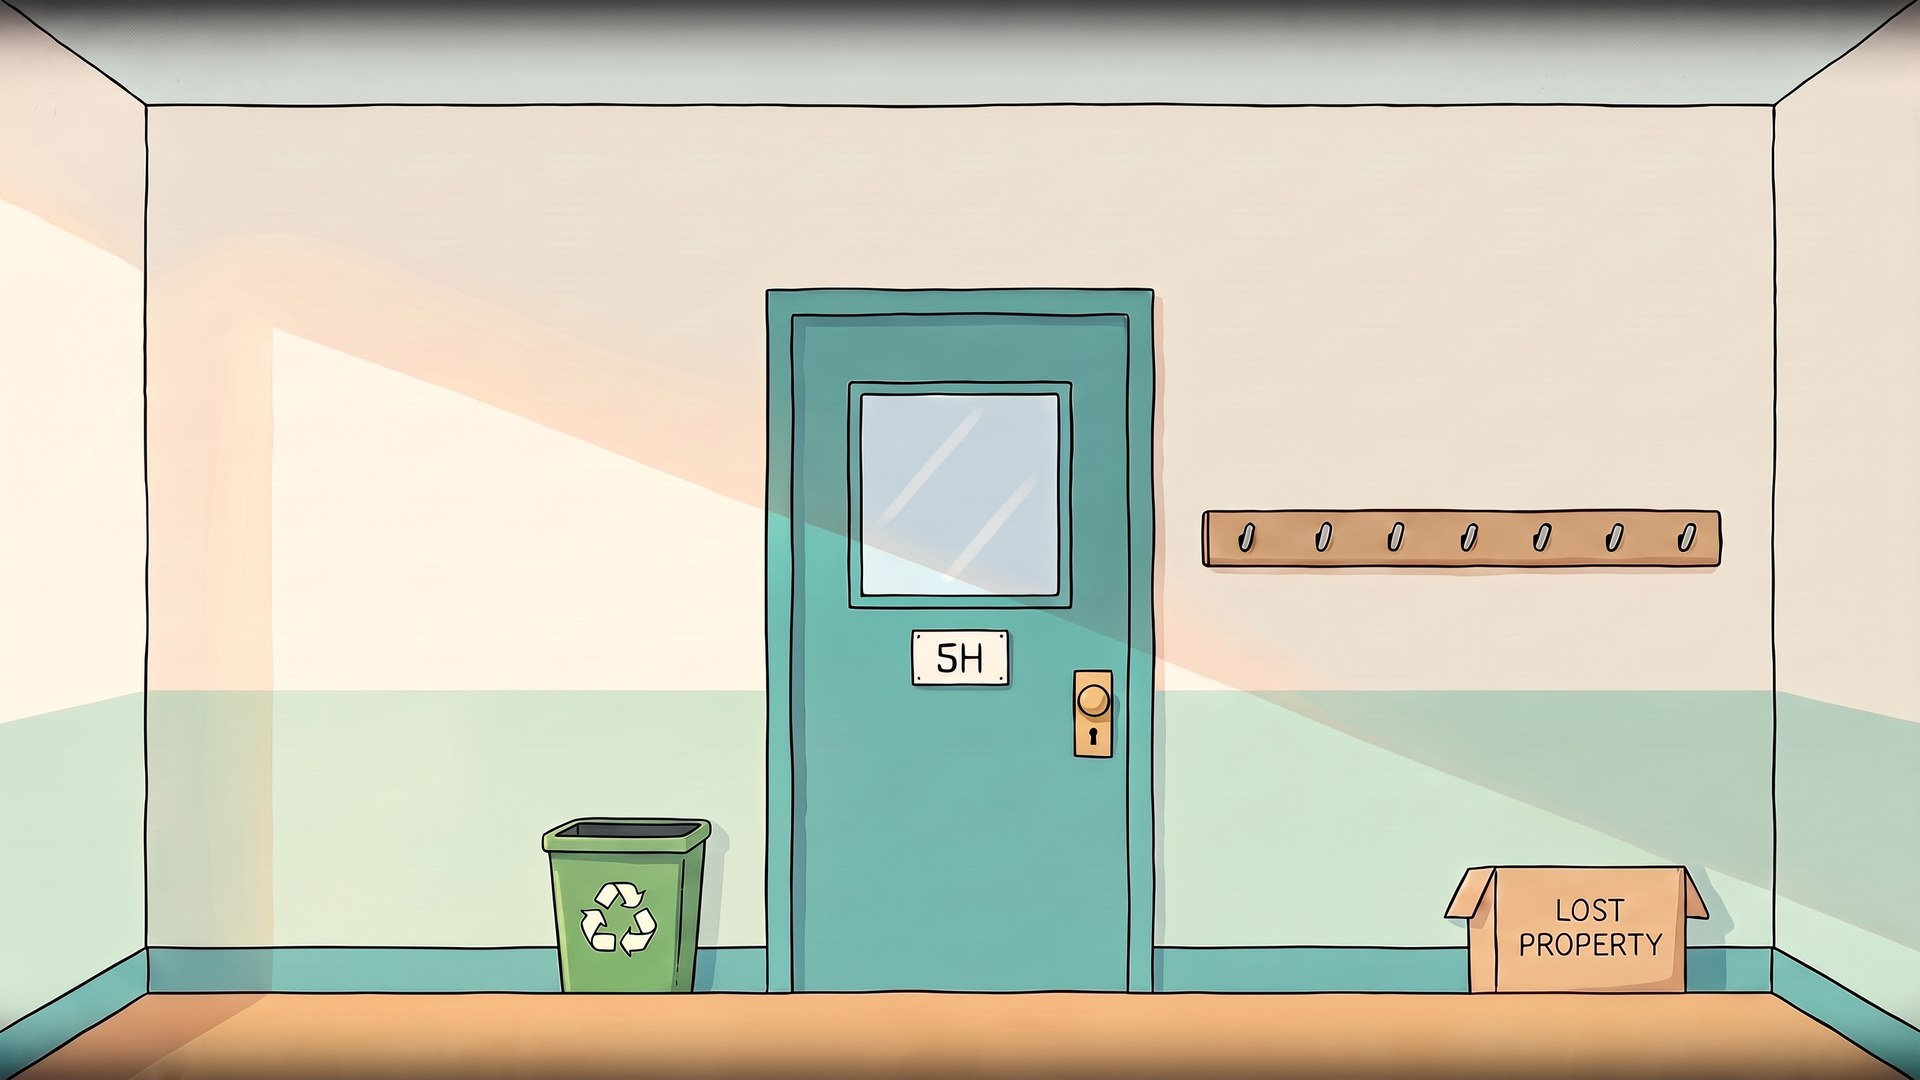
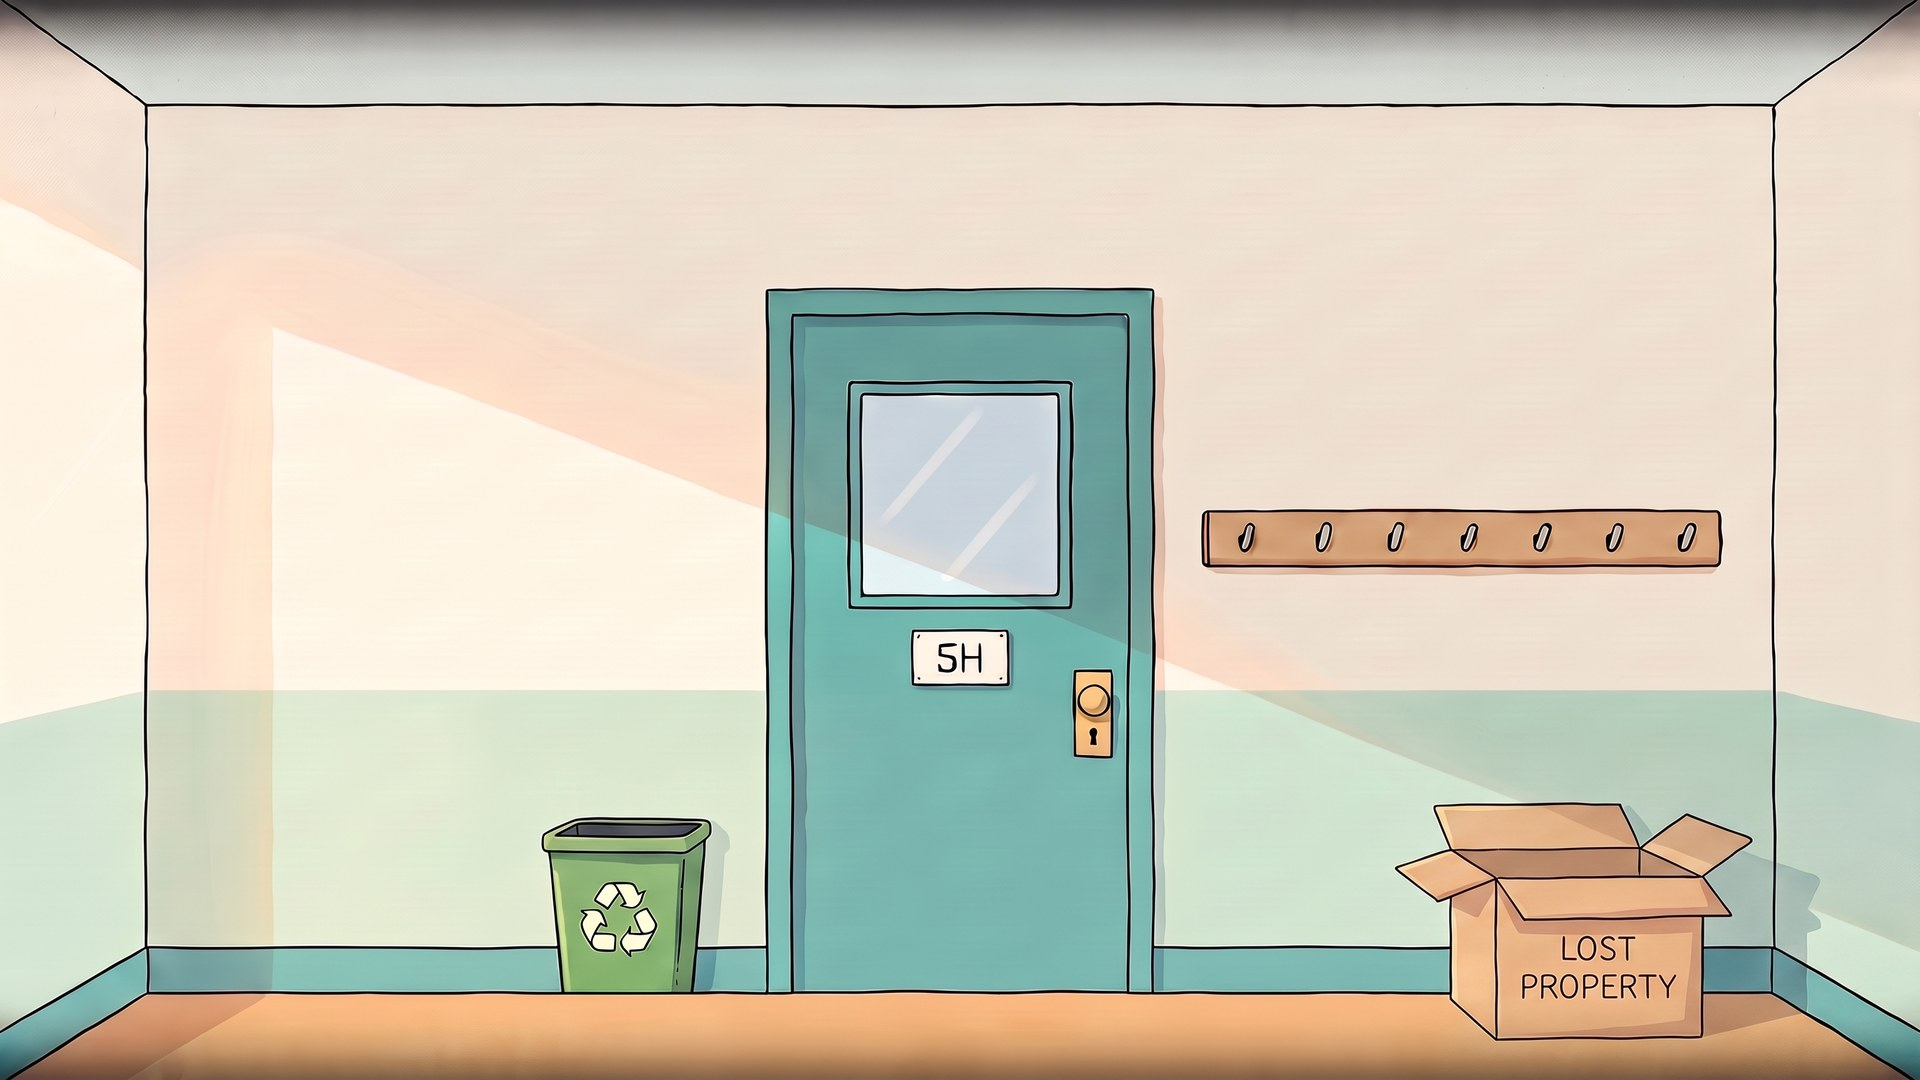
Classroom test: glass stays over Nutmeg while he moves; a real open lost-property box
Claude-Session: https://claude.ai/code/session_01EfdGHqbt9UMLzVmVXYp5s9

Changed region(s): [[0.7188, 0.7333, 0.9688, 0.9778]]

diff --git a/next/landscape/index.html b/next/landscape/index.html
@@ -160,7 +160,7 @@ button{font:inherit;color:inherit;cursor:pointer}
 
 <script>
 'use strict';
-const BUILD = '2026-09-28k';
+const BUILD = '2026-09-28l';
 const $ = id => document.getElementById(id);
 
 /* ---------- sizing: the scene fills the screen in landscape, inventory strip under it ---------- */
@@ -188,7 +188,7 @@ const HOTS = {
     {id:'bin', l:27, t:69, w:11, h:23, label:'Recycling bin', anim:'flip', layer:'lid', sound:'knock'},
     {id:'door', l:40, t:26.5, w:20.5, h:66, label:'Door to the corridor', sound:'knock'},
     {id:'pegs', l:61, t:46, w:29, h:36, label:'Coat pegs', anim:'swing', layer:'coat', sound:'leaf'},
-    {id:'lost', l:75, t:73, w:15, h:19, label:'Lost property box', anim:'pop', layer:'lost', sound:'paper'}],
+    {id:'lost', l:74.5, t:73, w:15.5, h:21, label:'Lost property box', anim:'pop', layer:'lost', sound:'paper'}],
   c4:[
     {id:'rules', l:26, t:30, w:8.5, h:18, label:'Class rules', sound:'paper'},
     {id:'timetable', l:38.5, t:25, w:23, h:30, label:'Class timetable', sound:'paper'},
@@ -218,7 +218,7 @@ const LAYERS = {
     {src:'../art/classroom/layer-plant4-pot.png', l:59.3, t:57.70, w:7.7, h:8.80, shadow:.5}],
   c3:[
     {src:'../art/classroom/layer-coat.png', group:'coat', l:59.9, t:50.4, w:10.8, h:24.2},
-    {src:'../art/classroom/layer-lost.png', group:'lost', l:77.5, t:74.5, w:10, h:8.9, clipBottom:81},
+    {src:'../art/classroom/layer-lost.png', group:'lost', l:77.6, t:78.2, w:9.6, h:8.5, clipBottom:85.2},
     {src:'../art/classroom/layer-lid.png', group:'lid', l:27.6, t:67.3, w:10, h:10.3}],
   c4:[
     {src:'../art/classroom/layer-envelope.png', group:'envelope', l:50.5, t:66.5, w:6.5, h:5.5, hideWhen:() => S.got.includes('envelope')},
@@ -265,6 +265,7 @@ function drawLayer(c, t){
   const damp = (f, tau) => Math.sin(2*Math.PI*f*t) * Math.exp(-t/tau);
   if (!anim){ ctx.drawImage(img, ox, oy); finish(); ctx.restore(); return; }
   const N = 40;
+  ctx.save(); /* every movement below shifts the drawing origin; undo that before the glass is painted */
   switch(anim){
     case 'bend': { /* a plant: displacement grows with the square of the distance from the base, so the tip whips and the stem barely moves */
       const A = W*0.32*damp(1.1, 0.75), lag = W*0.10*Math.sin(2*Math.PI*1.1*t - 1.2)*Math.exp(-t/0.75);
@@ -320,6 +321,7 @@ function drawLayer(c, t){
       ctx.translate(ox + W/2, oy + H + dy); ctx.rotate(rot); ctx.drawImage(img, -W/2, -H);
       break; }
   }
+  ctx.restore();
   finish();
   ctx.restore();
 }
